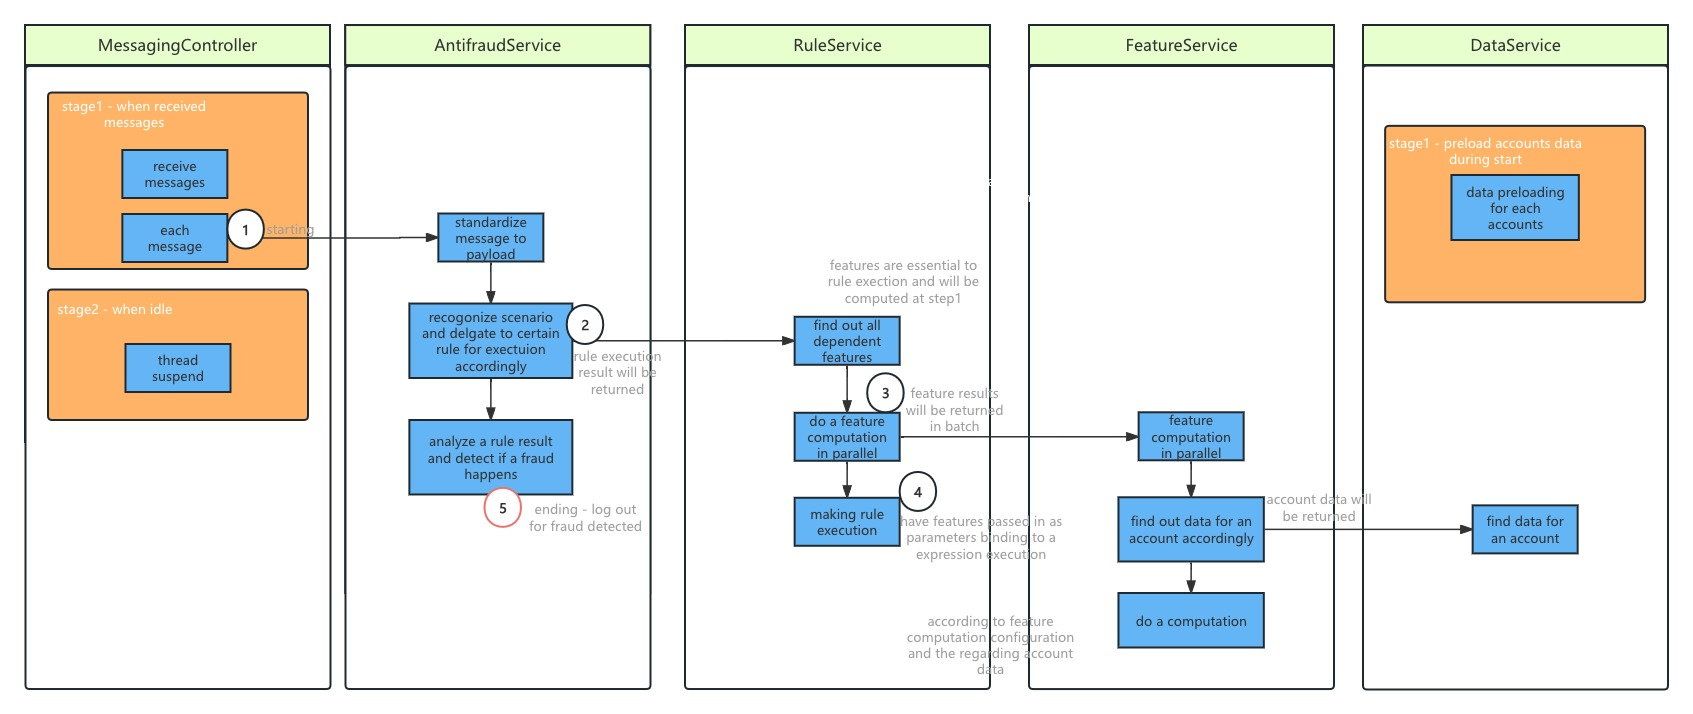
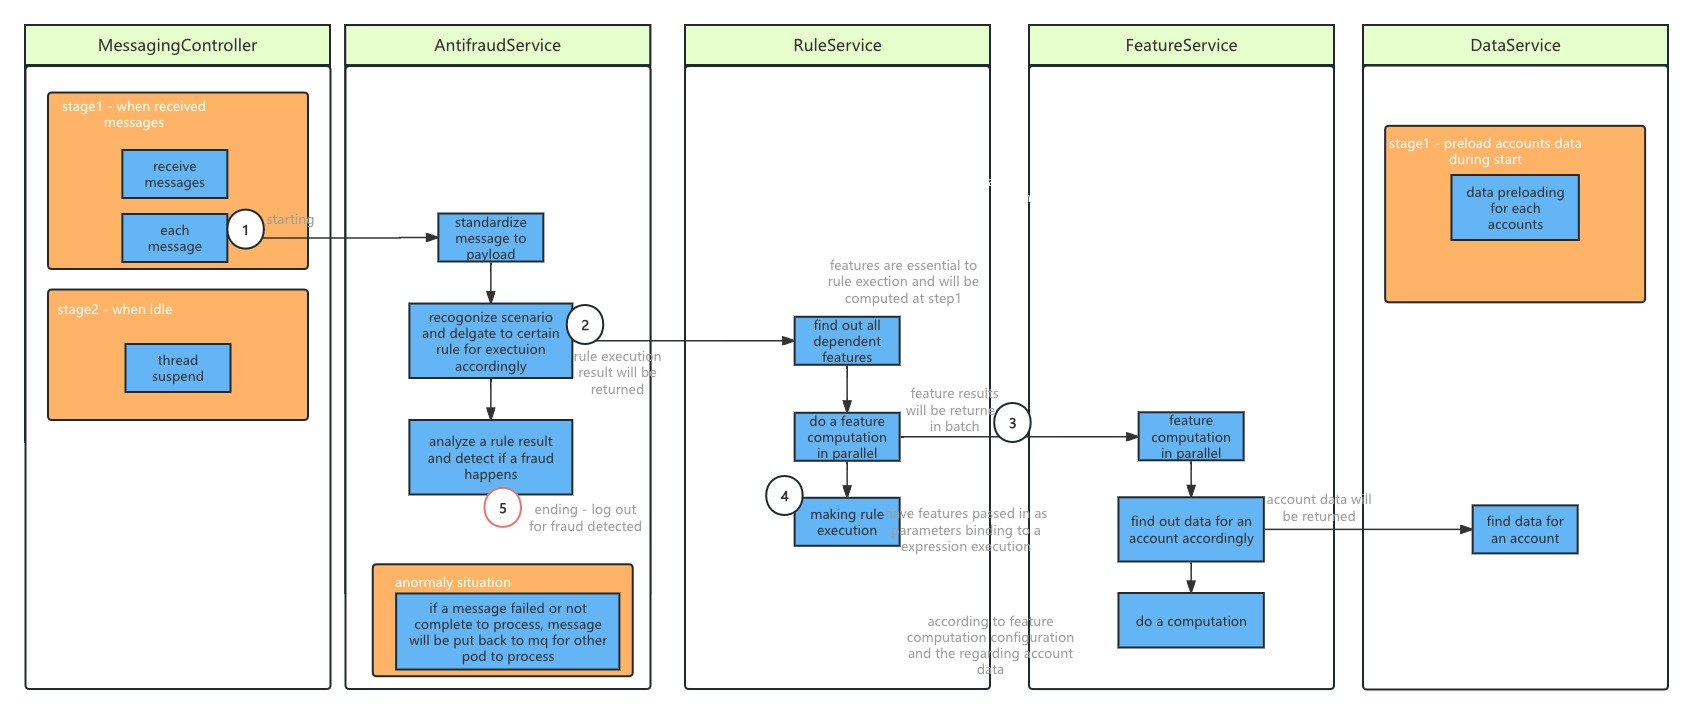
complete readme and add deployment arch

diff --git a/README.md b/README.md
@@ -10,20 +10,20 @@ refers to ![image](featuresDescription.png)
 * A data, which simulates and mocks data which will be used for feature computation
 * support for antifraud detecting & message processing, which process messages/payloads and gives fraud alert & logs 
 
-## assumptions
-certain assumptions are taken as below to simply situation or give a default solution giving this examination purpose
 
-* assume that rule and scenario are single to single relationship
-* assume single rule enough to detect fraud, otherwise it will involve flow engine which is out of the scope of this exam
-* assume data which used in feature/variable computing can be mocked, otherwise db or other storage will be involved 
-* assume that minimal configurations to rules/features are involved, otherwise system need to be separated into two sub-sytems, 1 console for configuration and 2 running engine for execution
-* assume that feature computing can be simplified
-* assume that fraud notifications/alerts can be simplified through log
-* assume that traffic can be sent through either local env or a node
+## deliverables announcements
+
+* source code is within
+* tests are under anitfraud-web/src/test; reports with coverage using maven can be generated and locate under antifraud-web/target/site/jacco-aggregate/index.html 
+* Kubernetes deployment file is under /Docker & /center.yaml; 
+* Documentation is as below mentioned, including functionality & architect docs; also some detailed tips are within code
+* Resilience test has to go over aliyun and give a manual demonstration, for example it needs to shutdown pod manually and check logs and mq see the processing which hasn't been jepardized
+
 
 ## arch & docs
 * logical arch regarding  ![image](hsbcAntifraudLogicArch.jpg)
 * a sequence diagram which demonstrates a major flow of execution   ![image](sequenceDiagram.jpg)
+* deployment arch   ![image](deploymentArch.png)
 
 ## code structure & modules
 
@@ -38,12 +38,15 @@ tests can be run in either idea or triggered by a maven build
 * FeatureTest
 * RuleTest
 * EnvTest, it is regarding environtment settings
-* MessagingTest, it is regarding messaging send & receiving to ali-cloud
+* MessagingTest, it is regarding messaging send & receiving to ali-cloud. 
 
 ### the integration test
 * AntifraudTest
   * testIntegration1 is an integration test in a non-message way, which can be run locally
   * testIntegration2 is an integration test in a message way, which is sent to mq and all nodes can consume messages and do fraud detects
+
+mocked traffics locate in this test
+
 
 ### test report and coverage
  - this project uses surefire and jacco, in which test results will be output under antifraud-web/target/site/jacco-aggregate/index.html
@@ -98,3 +101,16 @@ in order to run this u need to have following criteria
 - jdk8 
 - maven 
 - springboot
+
+
+
+## assumptions
+certain assumptions are taken as below to simply situation or give a default solution giving this examination purpose
+
+* assume that rule and scenario are single to single relationship
+* assume single rule enough to detect fraud, otherwise it will involve flow engine which is out of the scope of this exam
+* assume data which used in feature/variable computing can be mocked, otherwise db or other storage will be involved
+* assume that minimal configurations to rules/features are involved, otherwise system need to be separated into two sub-sytems, 1 console for configuration and 2 running engine for execution
+* assume that feature computing can be simplified
+* assume that fraud notifications/alerts can be simplified through log
+* assume that traffic can be sent through either local env or a node
